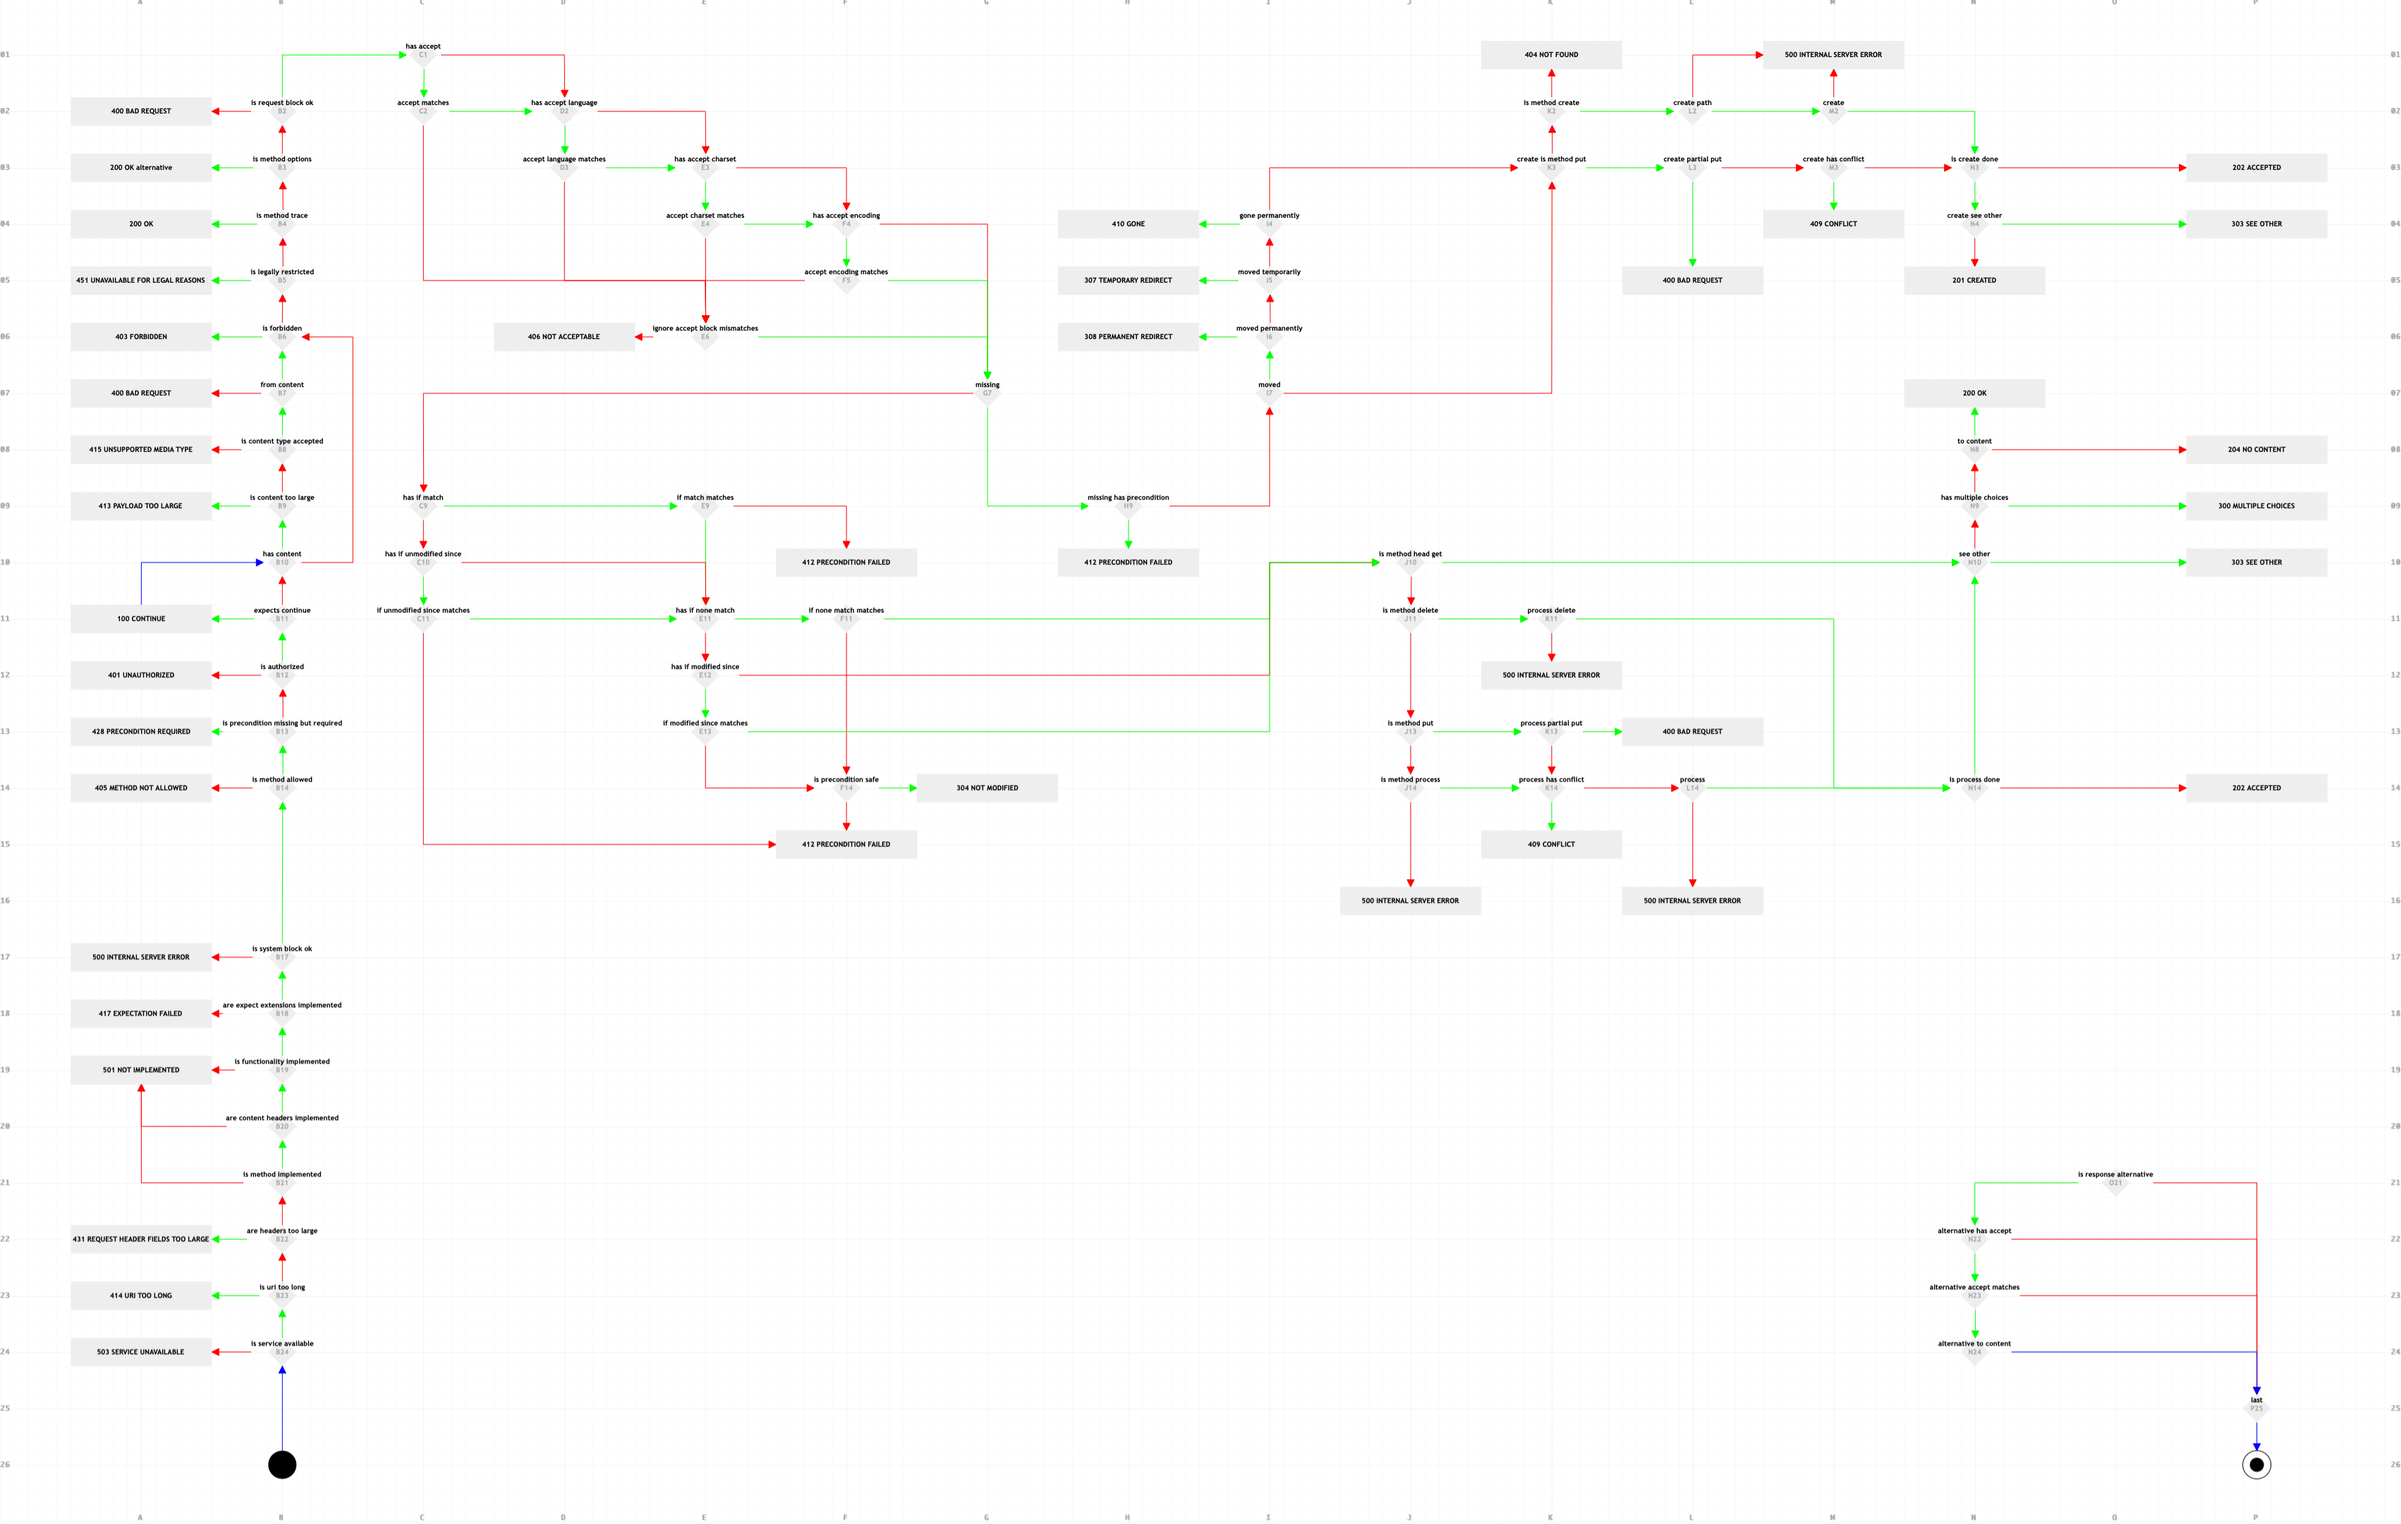
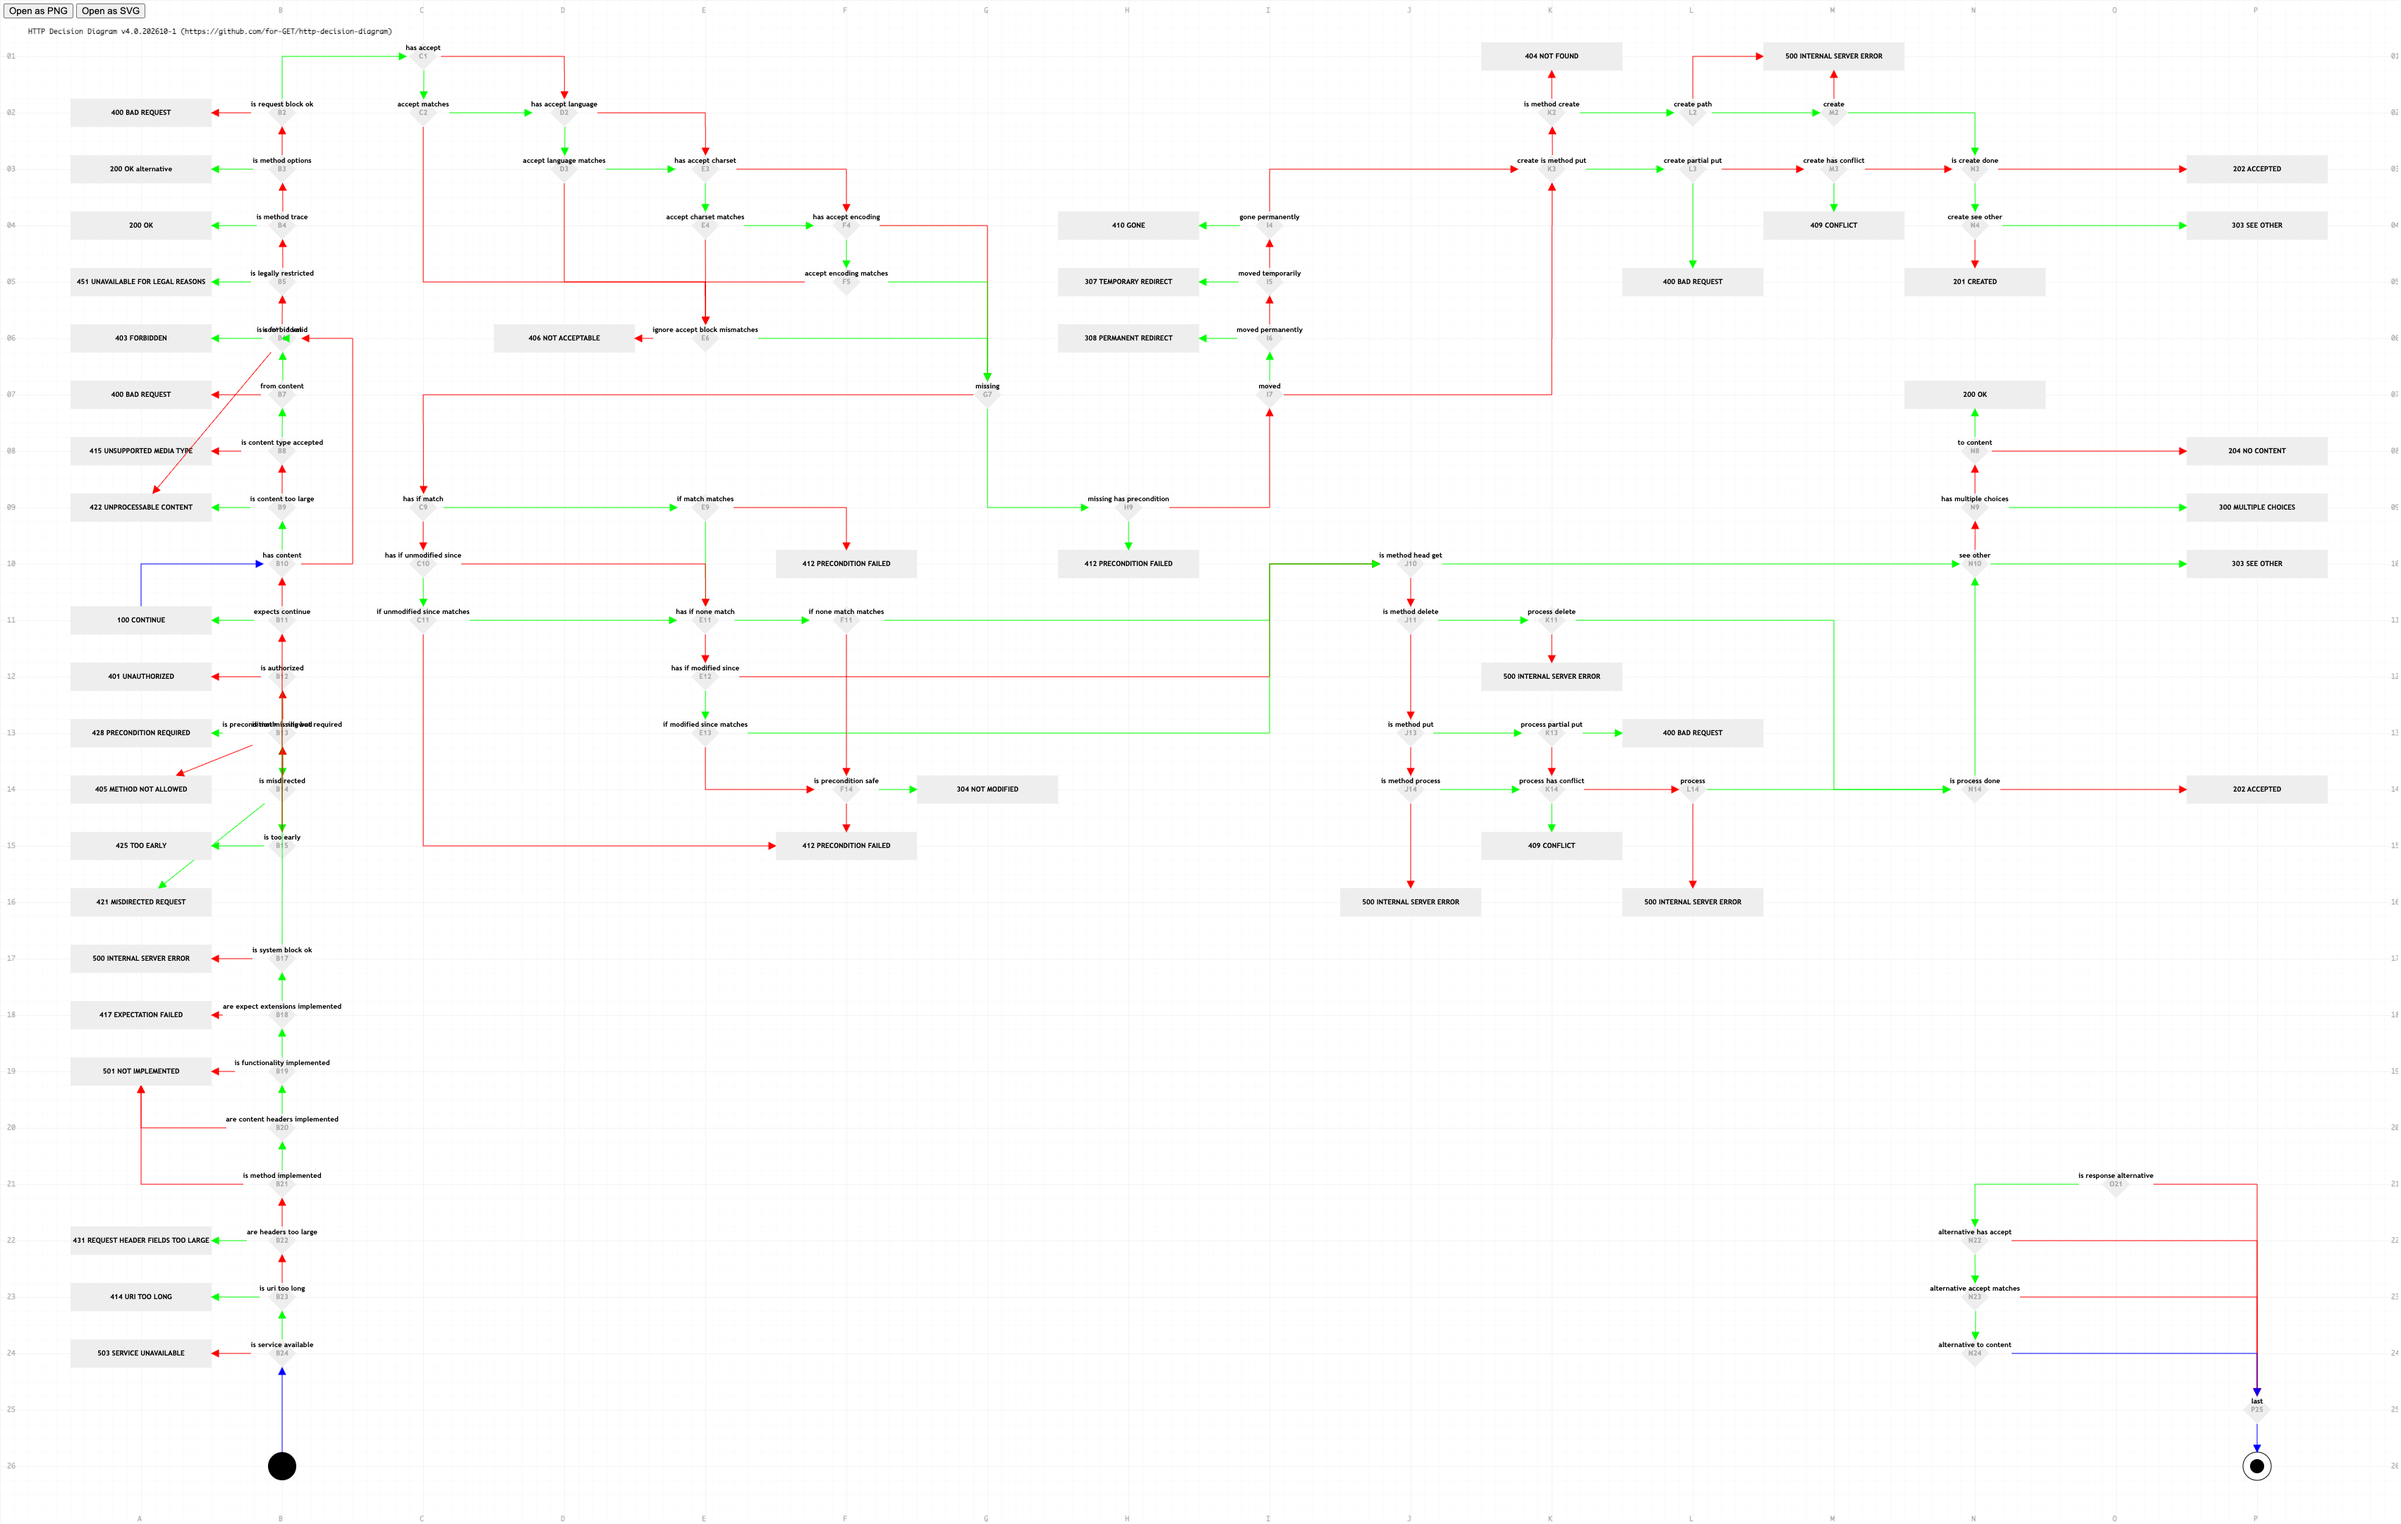
Script the PNG export: headless Chrome rasterizer (tools/fsm2png.sh)
The vendored JointJS 0.8 paper.toPNG is broken (canvas/this.toDataURL
unavailable), so httpdd.fsm.png had gone stale after the 421/422/425
additions. tools/fsm2png.sh serves the diagram locally and rasterizes
it with headless Chrome at the shipped 3404x2162; make build/fsm-png.
Regenerated PNG now includes the new statuses.

diff --git a/TODO.md b/TODO.md
@@ -17,7 +17,7 @@ Improvements carried over from the October 2026 spec review (RFC 9110/9111/9112 
 ## Coverage notes
 
 - [ ] Per-block doc pages (`doc/README_*.md`) still link a removed `httpdd.png` via rawgithub; point them at `../httpdd.fsm.png` like `doc/README.md`.
-- [ ] Layout (PNG/SVG) is generated from the JointJS page; script the PNG export (`make dist` or a headless screenshot) so `httpdd.fsm.png` regeneration is repeatable.
+- [x] Layout (PNG/SVG) is generated from the JointJS page; script the PNG export (`make build/fsm-png` via `tools/fsm2png.sh`, headless Chrome + python3 static server) so `httpdd.fsm.png` regeneration is repeatable — done; SVG export still relies on the page's `#to_svg` data-URL flow.
 - [ ] Wayback-style trailing validations cached in the JSON should be co-verified in `make check` (currently parse-only).
 - [ ] HTTP/2 (RFC 9113) and HTTP/3 (RFC 9114) version-specific pathways (misdirected-request flags, GOAWAY semantics) stay out-of-diagram — revisit if modeling is ever split per version.
 

diff --git a/doc/README.md b/doc/README.md
@@ -10,7 +10,7 @@ Out of scope (and why): [RFC2774](https://datatracker.ietf.org/doc/html/rfc2774)
 
 ## Diagram
 
-* [PNG](../httpdd.fsm.png) (export of the FSM rendered by [JointJS](https://jointjs.com/))
+* [PNG](../httpdd.fsm.png) (export of the FSM rendered by [JointJS](https://jointjs.com/); regenerate with `make build/fsm-png`)
 * [SVG](https://jointjs.com/) equivalent available at `httpdd.fsm.html`
 
 ## FSM
